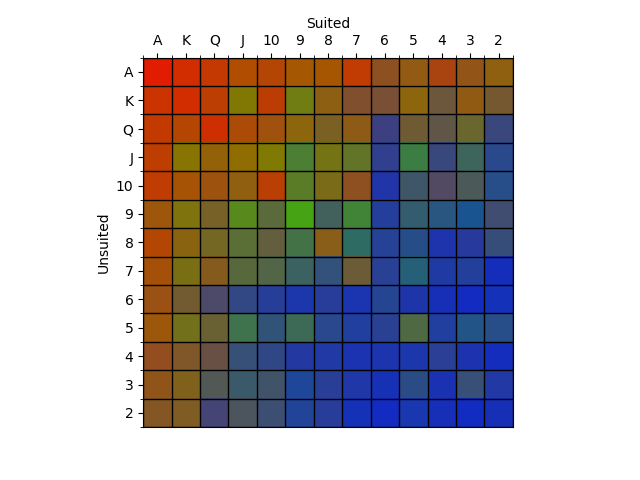
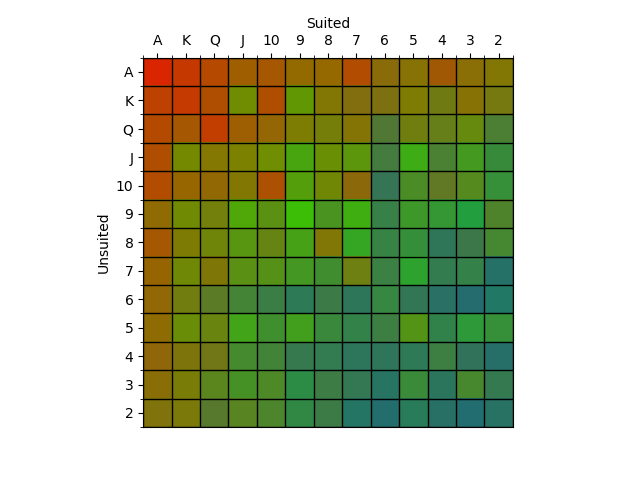
Edits to colourPlot

diff --git a/colourPlot.py b/colourPlot.py
@@ -22,7 +22,7 @@ def colourPlot(nnets):
 						cards[4*j+l] = 1
 						colour,_ = nnets.policyValue(cards,np.zeros((2,4,5,2)),np.zeros(52))
 						avColour += colour/12
-			avColour = avColour/average
+			avColour = avColour/(average+np.array([1/10,1/10,1/10]))
 			avColour = avColour**2
 			colours[12- i,12 - j,:] = avColour/np.sum(avColour)
 
@@ -35,7 +35,7 @@ def colourPlot(nnets):
 				cards[4*j+k] = 1
 				colour,_= nnets.policyValue(cards,np.zeros((2,4,5,2)),np.zeros(52))
 				avColour += colour/4
-			avColour = avColour/average
+			avColour = avColour/(average+np.array([1/10,1/10,1/10]))
 			avColour = avColour**2
 			colours[12- i,12 - j,:] = avColour/np.sum(avColour)
 
